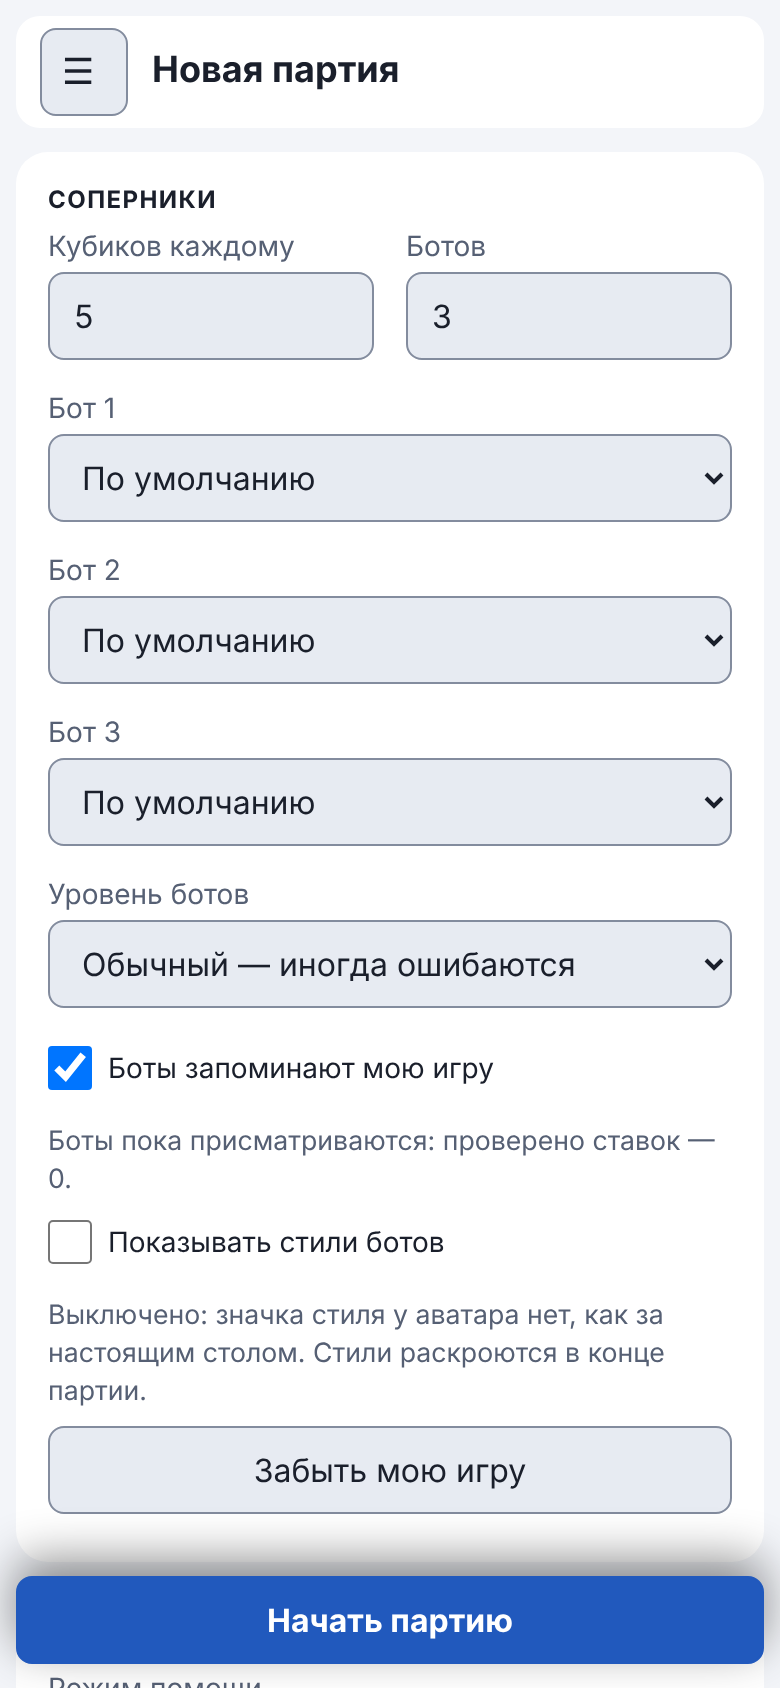
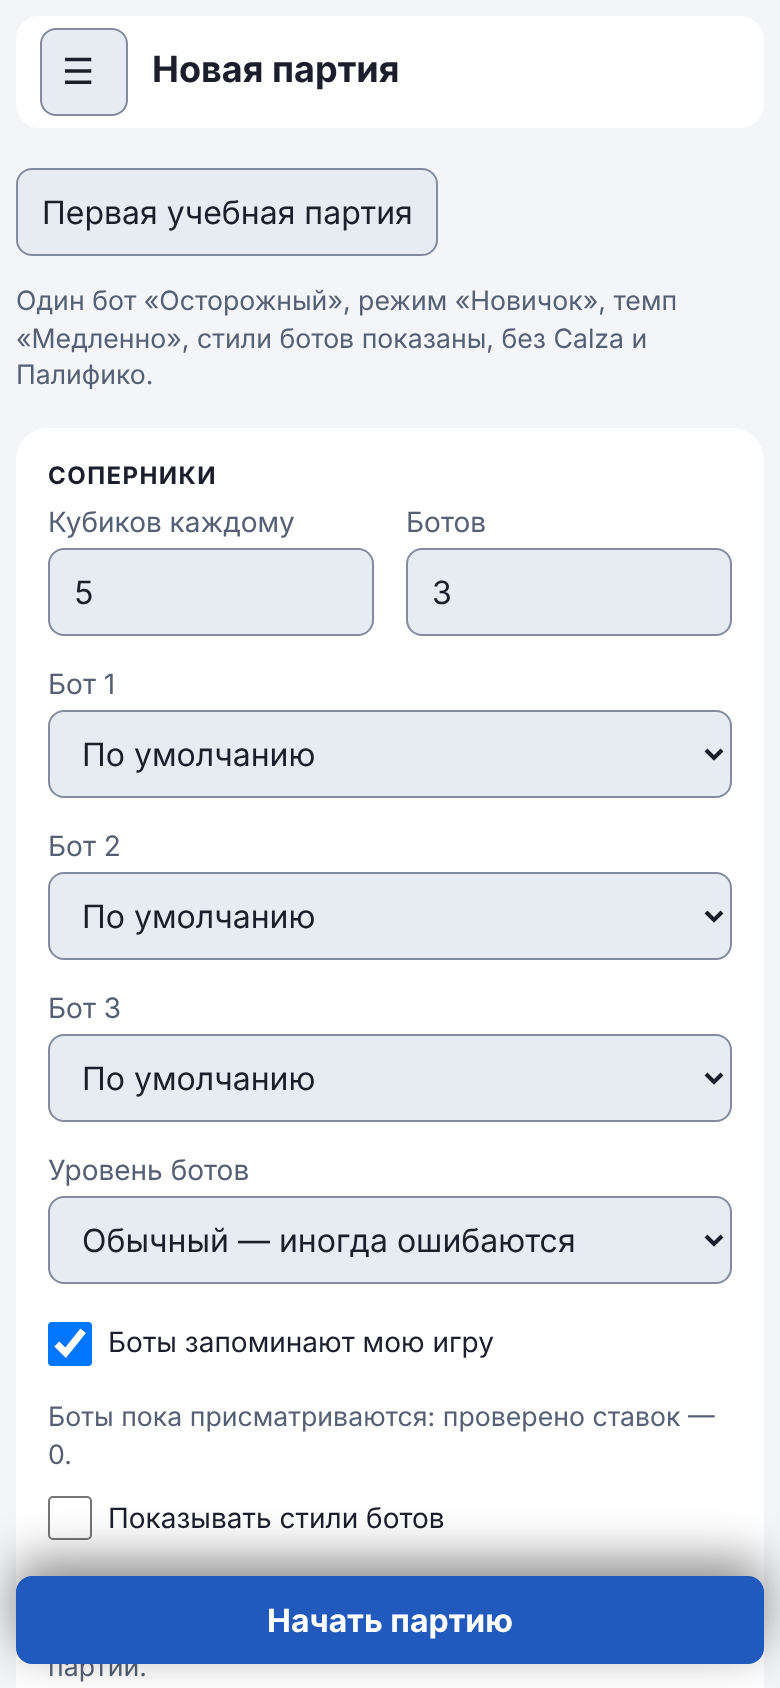
W2-01: пресет «Первая учебная партия» на экране новой партии

diff --git a/tests/game_settings.test.js b/tests/game_settings.test.js
@@ -12,6 +12,7 @@ global.localStorage = {
 const {
   defaultGameSettings, sanitizeGameSettings, isDefaultGameSettings, describeGameSettings,
   GAME_SETTINGS_VERSION, EXPLAIN_MODES, EXPLAIN_DEPTHS,
+  firstGamePreset, isFirstGamePreset, FIRST_GAME_LABEL, FIRST_GAME_HINT,
 } = await import('../src/game_settings.js');
 const {
   getLastGameSettings, setLastGameSettings, clearLastGameSettings, getSettings, setSettings,
@@ -179,5 +180,49 @@ describe('настройки версии 2: объяснения и стили'
     assert.deepStrictEqual(sanitizeGameSettings(s), s);
     setLastGameSettings(s);
     assert.deepStrictEqual(getLastGameSettings(), s);
+  });
+});
+
+describe('пресет «Первая учебная партия»', () => {
+  it('один бот «Осторожный», «Новичок», «Медленно», стили показаны, без Calza и Палифико', () => {
+    const p = firstGamePreset();
+    assert.strictEqual(p.bots, 1);
+    assert.deepStrictEqual(p.botStyles, ['careful']);
+    assert.strictEqual(p.assist, 'novice');
+    assert.strictEqual(p.speed, 'slow');
+    assert.strictEqual(p.hideStyles, false);
+    assert.strictEqual(p.calza, false);
+    assert.strictEqual(p.palifico, false);
+  });
+  it('проходит проверку данных без изменений и каждый раз возвращает новый объект', () => {
+    const p = firstGamePreset();
+    assert.deepStrictEqual(sanitizeGameSettings(p), p);
+    p.bots = 5;
+    assert.strictEqual(firstGamePreset().bots, 1);
+  });
+  it('isFirstGamePreset узнаёт пресет и не путает его со стандартными настройками', () => {
+    assert.ok(isFirstGamePreset(firstGamePreset()));
+    assert.ok(!isFirstGamePreset(defaultGameSettings()));
+    assert.ok(!isFirstGamePreset({ ...firstGamePreset(), speed: 'fast' }));
+    assert.ok(!isDefaultGameSettings(firstGamePreset()));
+  });
+  it('подпись и подсказка называют все условия пресета', () => {
+    assert.strictEqual(FIRST_GAME_LABEL, 'Первая учебная партия');
+    for (const w of ['Осторожный', 'Новичок', 'Медленно', 'стили', 'Calza', 'Палифико']) {
+      assert.ok(FIRST_GAME_HINT.includes(w), w);
+    }
+  });
+  it('кнопка и подсказка в index.html совпадают с модулем', async () => {
+    const { readFileSync } = await import('node:fs');
+    const html = readFileSync(new URL('../index.html', import.meta.url), 'utf8');
+    assert.ok(html.includes(`<button type="button" id="gFirstPreset">${FIRST_GAME_LABEL}</button>`));
+    assert.ok(html.includes(FIRST_GAME_HINT));
+  });
+  it('быстрый старт и страница настроек называют кнопку теми же словами', async () => {
+    const { readFileSync } = await import('node:fs');
+    for (const f of ['quick-start', 'game-settings']) {
+      const t = readFileSync(new URL(`../docs/guide/${f}.html`, import.meta.url), 'utf8').replace(/<[^>]+>/g, ' ');
+      assert.ok(t.includes(`«${FIRST_GAME_LABEL}»`), f);
+    }
   });
 });

diff --git a/docs/guide/quick-start.html b/docs/guide/quick-start.html
@@ -25,7 +25,7 @@
     <h2>Первая партия за минуту</h2>
     <ol>
       <li>Откройте <a href="../../index.html">приложение</a> и перейдите на вкладку <strong>«Партия»</strong>. Партия не начинается сама: сначала вы видите экран подготовки с настройками в карточках («Соперники», «Помощь и темп», «Звуки», «Дополнительные правила»).</li>
-      <li>Для первого раза настройки можно не менять. Нажмите <strong>«Начать партию»</strong>: кнопка закреплена внизу экрана, прокручивать настройки до неё не нужно.</li>
+      <li>Для первого раза нажмите <strong>«Первая учебная партия»</strong> под заголовком: она выставит один бот «Осторожный», режим «Новичок», темп «Медленно», покажет стили ботов и выключит Calza и Палифико. Затем нажмите <strong>«Начать партию»</strong>: кнопка закреплена внизу экрана, прокручивать настройки до неё не нужно.</li>
       <li>На своём ходу выберите <strong>количество</strong> кубиков кнопками <strong>−</strong> и <strong>+</strong> и <strong>цифру</strong>, затем нажмите <strong>«Ставлю»</strong>.</li>
       <li>Если считаете, что ставка соперника не сбудется, нажмите <strong>«Не верю!»</strong>.</li>
       <li>Откроется окно с кубиками всех игроков и результатом проверки. Нажмите <strong>«Дальше»</strong>.</li>

diff --git a/tests/e2e/table.spec.js b/tests/e2e/table.spec.js
@@ -359,6 +359,25 @@ test.describe('Покерный стол в партии', () => {
     await expect(page.locator('#gBots')).toHaveValue('3');
   });
 
+  test('«Первая учебная партия» одним нажатием выставляет настройки новичка, но не начинает партию', async ({ page }) => {
+    await page.locator('#gBots').fill('4');
+    await page.locator('#gCalzaOpt').check();
+    await page.locator('#gFirstPreset').click();
+    await expect(page.locator('#gBots')).toHaveValue('1');
+    await expect(page.locator('#gBotStyles select').first()).toHaveValue('careful');
+    await expect(page.locator('#gAssist')).toHaveValue('novice');
+    await expect(page.locator('#gSpeed')).toHaveValue('slow');
+    await expect(page.locator('#gCalzaOpt')).not.toBeChecked();
+    await expect(page.locator('#gPalificoOpt')).not.toBeChecked();
+    await expect(page.locator('#gShowStylesOpt')).toBeChecked();
+    await expect(page.locator('#gSetup')).toBeVisible();
+    expect(await lastGame(page)).toBeNull();
+    await page.locator('#gSetup .side-start').click();
+    expect(await lastGame(page)).toMatchObject({
+      bots: 1, botStyles: ['careful'], assist: 'novice', speed: 'slow', calza: false, palifico: false, hideStyles: false,
+    });
+  });
+
   test('«Объяснения»: выбор запоминается после партии и перезагрузки, пояснение меняется с режимом помощи', async ({ page }) => {
     await expect(page.locator('#gExplain')).toHaveValue('auto');
     await expect(page.locator('#gExplainDepth')).toHaveValue('short');

diff --git a/src/game_settings.js b/src/game_settings.js
@@ -102,3 +102,28 @@ export function describeGameSettings(s) {
   const explain = { off: 'без объяснений', after: 'объяснения после хода', full: 'объяснения до и после' }[v.explain];
   return [dice, bots, assist, ...(explain ? [explain] : []), speed].join(' · ');
 }
+
+/** Название кнопки-пресета на экране «Новая партия» (одно слово для приложения и руководства). */
+export const FIRST_GAME_LABEL = 'Первая учебная партия';
+/** Что делает пресет — одна строка для подсказки под кнопкой. */
+export const FIRST_GAME_HINT =
+  'Один бот «Осторожный», режим «Новичок», темп «Медленно», стили ботов показаны, без Calza и Палифико.';
+
+/** Настройки для самой первой партии: спокойный соперник, подсказки и время подумать. */
+export function firstGamePreset() {
+  return sanitizeGameSettings({
+    ...defaultGameSettings(),
+    bots: 1,
+    botStyles: ['careful'],
+    assist: 'novice',
+    speed: 'slow',
+    calza: false,
+    palifico: false,
+    hideStyles: false,
+  });
+}
+
+/** Совпадают ли настройки с пресетом «Первая учебная партия». */
+export function isFirstGamePreset(s) {
+  return JSON.stringify(sanitizeGameSettings(s)) === JSON.stringify(firstGamePreset());
+}

diff --git a/index.html b/index.html
@@ -364,6 +364,10 @@
               <h2 class="setup-title" id="gSetupTitle">Новая партия</h2>
               <p class="muted">Выберите соперников, помощь и правила. Настройки запоминаются: в следующий раз достаточно одной кнопки.</p>
             </div>
+            <div class="preset-row">
+              <button type="button" id="gFirstPreset">Первая учебная партия</button>
+              <small id="gFirstPresetHint" class="game-settings-help">Один бот «Осторожный», режим «Новичок», темп «Медленно», стили ботов показаны, без Calza и Палифико.</small>
+            </div>
             <!-- Если страницу перезагрузили посреди партии, предлагаем её продолжить -->
             <section id="gResume" class="setup-card resume-card" aria-labelledby="gResumeTitle" hidden>
               <h3 class="set-label" id="gResumeTitle">Незавершённая партия</h3>

diff --git a/docs/guide/game-settings.html b/docs/guide/game-settings.html
@@ -27,6 +27,8 @@
       <figcaption>Кнопка «Начать партию» остаётся внизу экрана, прокручивать настройки до неё не нужно.</figcaption>
     </figure>
 
+    <p><strong>Первый раз?</strong> Кнопка <strong>«Первая учебная партия»</strong> в начале экрана подготовки выставляет спокойные настройки одним нажатием: один бот «Осторожный», режим «Новичок», темп «Медленно», стили ботов показаны, Calza и Палифико выключены. Партия при этом не начинается: проверьте настройки и нажмите «Начать партию». Остальные настройки можно потом вернуть кнопкой «Сбросить к стандартным настройкам».</p>
+
     <h2>Что можно настроить</h2>
     <ul>
       <li><strong>Кубиков каждому</strong> — от 1 до 10.</li>

diff --git a/src/ui/game_settings_ui.js b/src/ui/game_settings_ui.js
@@ -5,7 +5,7 @@
 
 import { $ } from './common.js';
 import {
-  sanitizeGameSettings, defaultGameSettings, isDefaultGameSettings,
+  sanitizeGameSettings, defaultGameSettings, isDefaultGameSettings, firstGamePreset,
 } from '../game_settings.js';
 import { getLastGameSettings, setLastGameSettings, clearLastGameSettings } from '../storage.js';
 
@@ -93,6 +93,13 @@ export function setupGameSettings() {
     btn.addEventListener('click', () => {
       applyGameSettings(defaultGameSettings());
       clearLastGameSettings();
+      refreshResetButton();
+    });
+  }
+  const preset = $('#gFirstPreset');
+  if (preset) {
+    preset.addEventListener('click', () => {
+      applyGameSettings(firstGamePreset());
       refreshResetButton();
     });
   }

diff --git a/src/css/game.css b/src/css/game.css
@@ -42,6 +42,18 @@
   margin: 0;
 }
 
+.preset-row {
+  display: flex;
+  flex-wrap: wrap;
+  align-items: center;
+  gap: var(--space-2);
+  margin: var(--space-2) 0 var(--space-4);
+}
+
+.preset-row button {
+  min-height: 44px;
+}
+
 #game.is-prestart #gDock,
 #game.is-prestart #gameTable,
 #game.is-prestart .game-side,

diff --git a/docs/dev/roadmap.md b/docs/dev/roadmap.md
@@ -4,7 +4,7 @@
 
 **Как вести файл.** Пункт выполнен, когда его патч применён и проверен: в строке меняется `[ ]` на `[x]` и в поле «Патч» ставится номер. Отметку делает тот же патч, который закрывает пункт. Тест `tests/roadmap.test.js` следит, чтобы ID не повторялись, у выполненных был номер патча, а счётчик ниже совпадал со списком.
 
-Выполнено: 11 из 25
+Выполнено: 12 из 25
 
 Формат строки: `- [ ] **ID** · размер (S, M, L) · название (замечания из отчёта) — критерий готовности. Патч: номер или —`.
 
@@ -26,7 +26,7 @@
 
 ## Волна 2. Онбординг и прогресс
 
-- [ ] **W2-01** · M · Пресет «Первая учебная партия» (UX-05) — одна кнопка: один бот «Осторожный», «Новичок», «Медленно», стили показаны, без Calza и Палифико; быстрый старт ссылается на неё. Патч: —
+- [x] **W2-01** · M · Пресет «Первая учебная партия» (UX-05) — одна кнопка: один бот «Осторожный», «Новичок», «Медленно», стили показаны, без Calza и Палифико; быстрый старт ссылается на неё. Патч: 138
 - [ ] **W2-02** · M · Контекстные ссылки на руководство (UX-03) — из каждого основного раздела одним действием открывается нужная страница гайда. Патч: —
 - [ ] **W2-03** · M · Карточка «Впервые?» на старте (UX-02) — три шага (правила, первая партия, Тренажёр), показывается только на чистом профиле. Патч: —
 - [ ] **W2-04** · M · Предложение облака после первого результата (UX-01) — до первой партии или тренировки окна выбора нет. Патч: —
